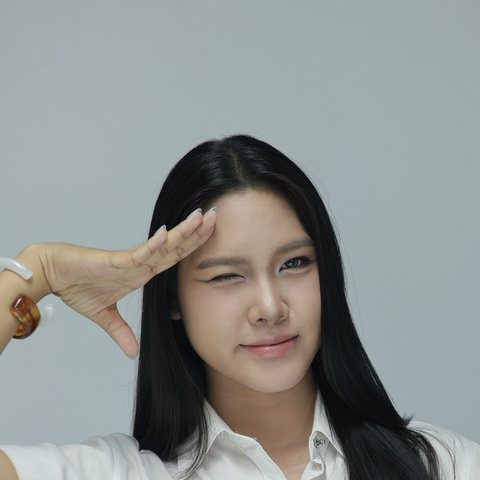
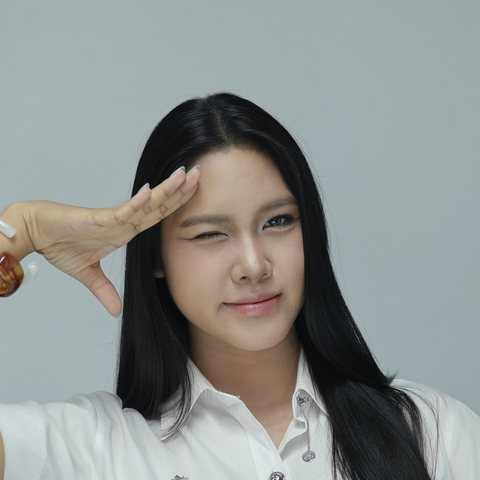
team update

diff --git a/CLAUDE.md b/CLAUDE.md
@@ -71,7 +71,7 @@ GitHub `Suphanut07/kinraidi` (public) → Vercel auto-deploy → https://kinraid
 
 ## งานที่ยังค้าง
 - [x] รูปร้าน 12 ร้าน (hongyok ... jenidbualoy) — ใส่แล้ว 30 ต.ค. 2026 (ได้รับอนุญาตจากร้าน) / hongyok-2, snowwhite-2 รูปเล็ก ควรหารูปชัดกว่านี้
-- [ ] ร้านที่มีแค่รูปหลัก (ยังขาด -2, -3): kruatoke, yoisoup, bakeTillWeDie, yumwa, kruakhunmiang
+- [x] รูป -2/-3 ของ kruatoke, yoisoup, bakeTillWeDie, yumwa, kruakhunmiang — ใส่รูปฟรีจาก Unsplash (Unsplash License) แล้ว 2 พ.ย. อยู่ใน Supabase bucket `restaurants` (ไม่ใช่รูปจากร้านจริง ทีมเลือกไม่ติดป้าย) ช่างภาพ: kruatoke-2 Jenevy Vergara, kruatoke-3 sicong gao, kruakhunmiang-2 Caramel, kruakhunmiang-3 Kittitep Khotchalee, yoisoup-2 Zhen Yao, yoisoup-3 Ruthy Yang, bakeTillWeDie-2 Margarita Cherniak, bakeTillWeDie-3 Nathan Dumlao, yumwa-2 Zoshua Colah, yumwa-3 Hiang Kanjinna — ถ้าได้รูปจริงจากร้าน ให้วางที่ assets/img/<id>-<n>.jpg ได้เลย (ไฟล์ในเครื่องมาก่อน Supabase)
 - [ ] ตรวจข้อมูลร้านกับของจริง (เวลาเปิด-ปิด, พิกัด lat/lng, ราคา, feat) แล้วตั้ง `verified: true`
 - [ ] (ถ้ามีเวลา) ห้องโหวตแบบทุกคนกดจากมือถือตัวเอง, ปุ่ม Veto คนละ 1 สิทธิ์
 - [ ] ชื่อผู้ commit ใน git เป็น atchayathas-lab ไม่ตรงกับเจ้าของ repo — แก้ด้วย `git config user.name/user.email` ถ้าผู้ใช้ต้องการ
